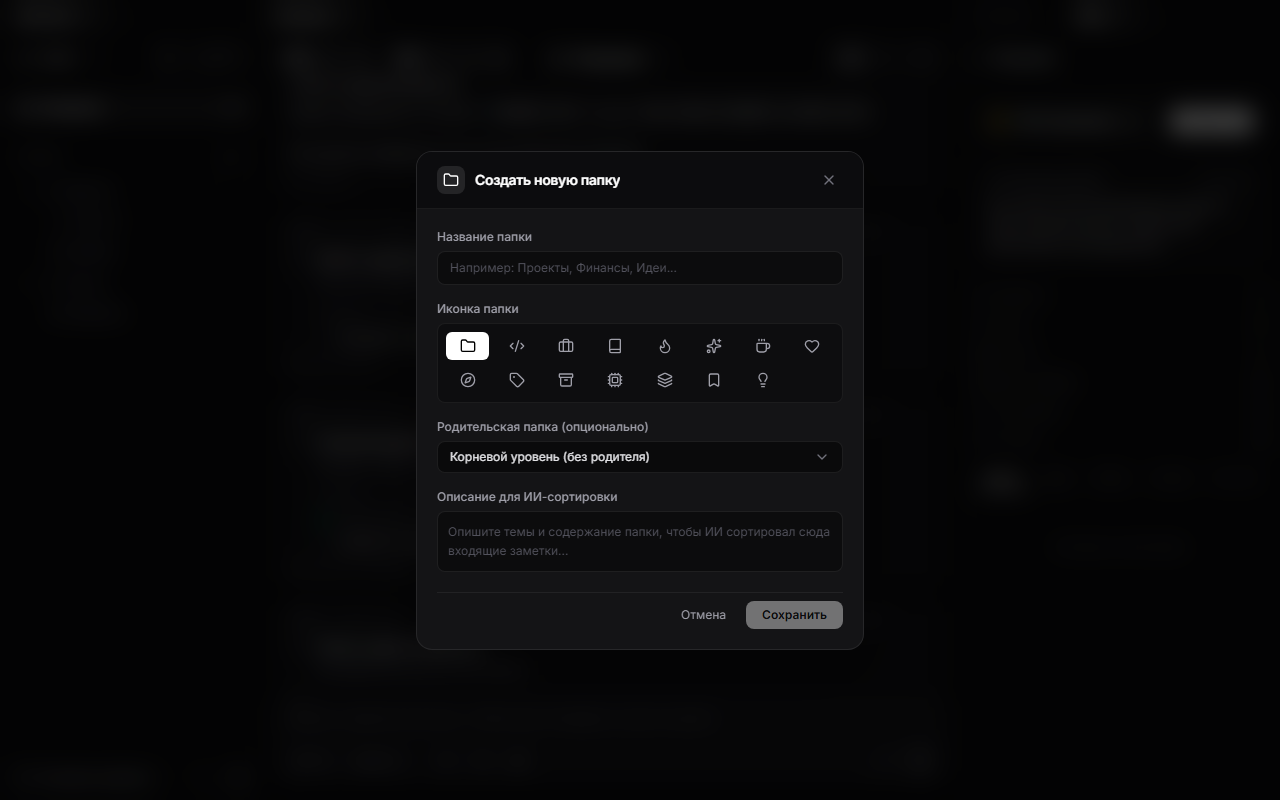
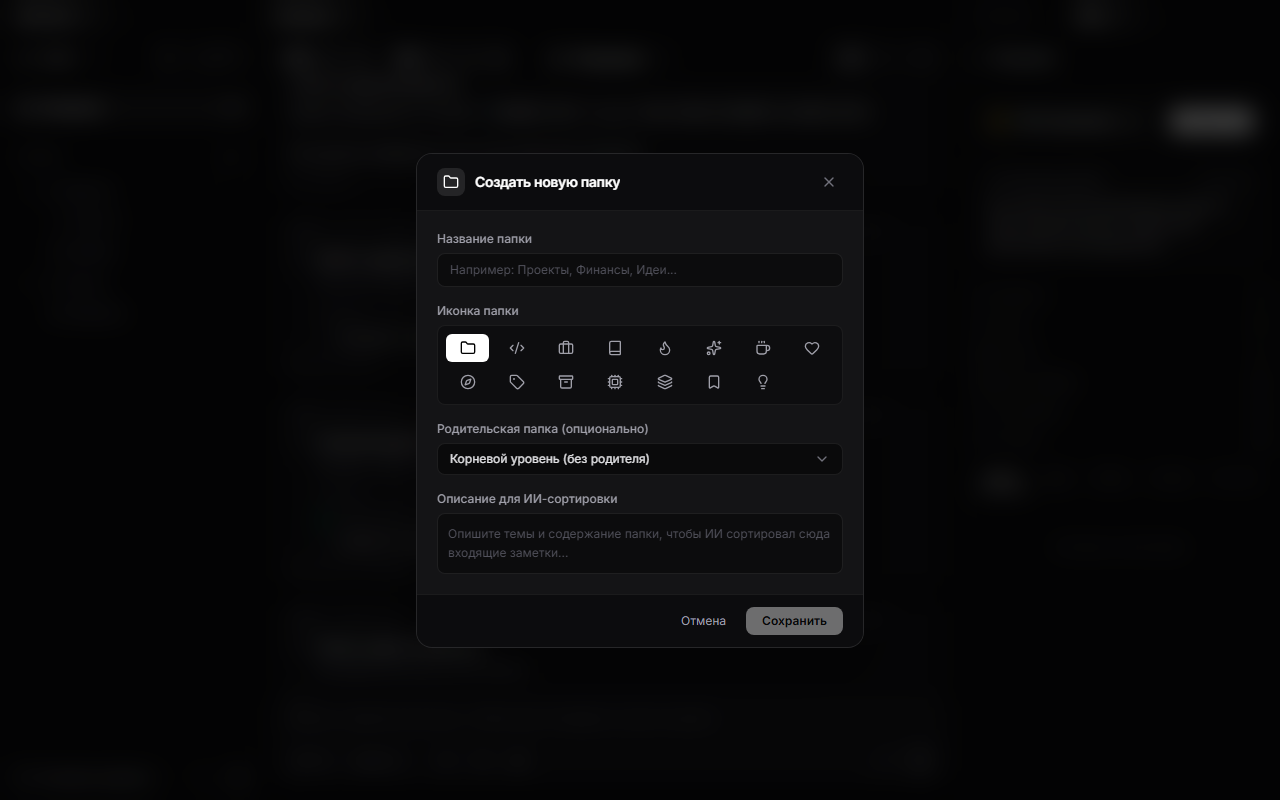
refactor(modals): eliminate box-in-a-box matryoshka in triage and folder modals

diff --git a/src/components/Modals/TriageModal.tsx b/src/components/Modals/TriageModal.tsx
@@ -110,7 +110,7 @@ const TriageModalDialog: React.FC = () => {
       maxWidth="max-w-lg"
       footer={footer}
     >
-      <div className="p-5 flex flex-col gap-3">
+      <div className="p-3 md:p-4 flex flex-col gap-2">
         {loading ? (
           <div className="flex flex-col items-center justify-center py-12 gap-3 text-zinc-400">
             <Loader2 className="w-6 h-6 animate-spin text-white" />
@@ -121,8 +121,8 @@ const TriageModalDialog: React.FC = () => {
             Нет заметок во «Входящих» для распределения.
           </div>
         ) : (
-          <div className="flex flex-col gap-2">
-            <div className="flex justify-between items-center text-[11px] text-zinc-500 pb-1">
+          <div className="flex flex-col">
+            <div className="flex justify-between items-center text-[11px] text-zinc-500 px-3 py-1.5 border-b border-white/[0.04] mb-1">
               <span>Предложенные перемещения:</span>
               <button
                 type="button"
@@ -136,43 +136,45 @@ const TriageModalDialog: React.FC = () => {
               </button>
             </div>
 
-            {suggestions.map(s => {
-              const isChecked = selectedIds.has(s.itemId);
-              return (
-                <div
-                  key={s.itemId}
-                  onClick={() => toggleSelect(s.itemId)}
-                  className={`flex items-start gap-3 p-3 rounded-xl border cursor-pointer transition-all ${
-                    isChecked
-                      ? 'bg-white/[0.04] border-white/[0.12] text-white'
-                      : 'bg-transparent border-white/[0.04] text-zinc-500 opacity-60'
-                  }`}
-                >
-                  <Checkbox
-                    checked={isChecked}
-                    onChange={() => toggleSelect(s.itemId)}
-                    className="mt-0.5 pointer-events-none"
-                  />
+            <div className="flex flex-col gap-0.5 max-h-[380px] overflow-y-auto">
+              {suggestions.map(s => {
+                const isChecked = selectedIds.has(s.itemId);
+                return (
+                  <div
+                    key={s.itemId}
+                    onClick={() => toggleSelect(s.itemId)}
+                    className={`group flex items-start gap-3 px-3 py-2.5 rounded-lg cursor-pointer transition-colors ${
+                      isChecked
+                        ? 'text-zinc-200 hover:bg-white/[0.04]'
+                        : 'text-zinc-500 opacity-40 hover:opacity-75 hover:bg-white/[0.02]'
+                    }`}
+                  >
+                    <Checkbox
+                      checked={isChecked}
+                      onChange={() => toggleSelect(s.itemId)}
+                      className="mt-0.5 pointer-events-none"
+                    />
 
-                  <div className="flex-1 min-w-0 flex flex-col gap-1">
-                    <div className="flex items-center justify-between gap-2">
-                      <span className="text-xs font-medium text-zinc-200 truncate">
-                        {s.itemTitle}
-                      </span>
-                      <div className="flex items-center gap-1 text-[11px] font-mono text-zinc-400 shrink-0">
-                        <span>Входящие</span>
-                        <ArrowRight className="w-3 h-3 text-zinc-500" />
-                        <span className="text-white font-medium">{s.targetFolder}</span>
+                    <div className="flex-1 min-w-0 flex flex-col gap-0.5">
+                      <div className="flex items-center justify-between gap-3">
+                        <span className="text-xs font-medium text-zinc-200 truncate">
+                          {s.itemTitle}
+                        </span>
+                        <div className="flex items-center gap-1.5 text-[11px] font-mono text-zinc-400 shrink-0">
+                          <span className="text-zinc-500">Входящие</span>
+                          <ArrowRight className="w-3 h-3 text-zinc-600" />
+                          <span className="text-zinc-200 font-medium">{s.targetFolder}</span>
+                        </div>
                       </div>
-                    </div>
 
-                    <span className="text-[11px] text-zinc-400 italic">
-                      {s.reason}
-                    </span>
+                      <p className="text-[11px] text-zinc-500 leading-normal line-clamp-1">
+                        {s.reason}
+                      </p>
+                    </div>
                   </div>
-                </div>
-              );
-            })}
+                );
+              })}
+            </div>
           </div>
         )}
       </div>

diff --git a/src/components/Modals/FolderModal.tsx b/src/components/Modals/FolderModal.tsx
@@ -51,6 +51,44 @@ const FolderModalDialog: React.FC = () => {
 
   const CurrentIconComp = FOLDER_ICONS[selectedIcon] || Folder;
 
+  const footer = (
+    <div className="flex items-center justify-between">
+      {isEditing && editingFolder?.path !== 'Входящие' ? (
+        <button
+          type="button"
+          onClick={() => {
+            deleteFolder(editingFolder!.path);
+            closeFolderModal();
+          }}
+          className="flex items-center gap-1.5 text-xs text-rose-400 hover:text-rose-300 transition-colors cursor-pointer"
+        >
+          <Trash2 className="w-3.5 h-3.5" />
+          <span>Удалить папку</span>
+        </button>
+      ) : (
+        <div />
+      )}
+
+      <div className="flex gap-2">
+        <button
+          type="button"
+          onClick={closeFolderModal}
+          className="px-3 py-1.5 rounded-lg text-xs text-zinc-400 hover:text-white transition-colors cursor-pointer"
+        >
+          Отмена
+        </button>
+        <button
+          type="submit"
+          form="folder-modal-form"
+          disabled={!name.trim()}
+          className="px-4 py-1.5 rounded-lg bg-white text-black font-semibold text-xs hover:bg-zinc-200 transition-colors disabled:opacity-40 disabled:cursor-not-allowed cursor-pointer"
+        >
+          Сохранить
+        </button>
+      </div>
+    </div>
+  );
+
   return (
     <BaseModal
       isOpen={true}
@@ -58,9 +96,10 @@ const FolderModalDialog: React.FC = () => {
       title={isEditing ? 'Настройки папки' : 'Создать новую папку'}
       icon={<CurrentIconComp className="w-4 h-4" />}
       maxWidth="max-w-md"
+      footer={footer}
     >
       {/* Form Body */}
-      <form onSubmit={handleSave} className="p-5 flex flex-col gap-4">
+      <form id="folder-modal-form" onSubmit={handleSave} className="p-5 flex flex-col gap-4">
         <div className="flex flex-col gap-1.5">
           <label className="text-xs font-medium text-zinc-400">Название папки</label>
           <input
@@ -120,42 +159,6 @@ const FolderModalDialog: React.FC = () => {
             rows={2}
             className="w-full bg-black/40 border border-white/[0.08] rounded-lg p-2.5 text-xs text-white placeholder-zinc-600 resize-none leading-relaxed"
           />
-        </div>
-
-        {/* Footer Controls */}
-        <div className="flex items-center justify-between pt-2 border-t border-white/[0.06] mt-1">
-          {isEditing && editingFolder?.path !== 'Входящие' ? (
-            <button
-              type="button"
-              onClick={() => {
-                deleteFolder(editingFolder!.path);
-                closeFolderModal();
-              }}
-              className="flex items-center gap-1.5 text-xs text-rose-400 hover:text-rose-300 transition-colors cursor-pointer"
-            >
-              <Trash2 className="w-3.5 h-3.5" />
-              <span>Удалить папку</span>
-            </button>
-          ) : (
-            <div />
-          )}
-
-          <div className="flex gap-2">
-            <button
-              type="button"
-              onClick={closeFolderModal}
-              className="px-3 py-1.5 rounded-lg text-xs text-zinc-400 hover:text-white transition-colors cursor-pointer"
-            >
-              Отмена
-            </button>
-            <button
-              type="submit"
-              disabled={!name.trim()}
-              className="px-4 py-1.5 rounded-lg bg-white text-black font-semibold text-xs hover:bg-zinc-200 transition-colors disabled:opacity-40 disabled:cursor-not-allowed cursor-pointer"
-            >
-              Сохранить
-            </button>
-          </div>
         </div>
       </form>
     </BaseModal>
